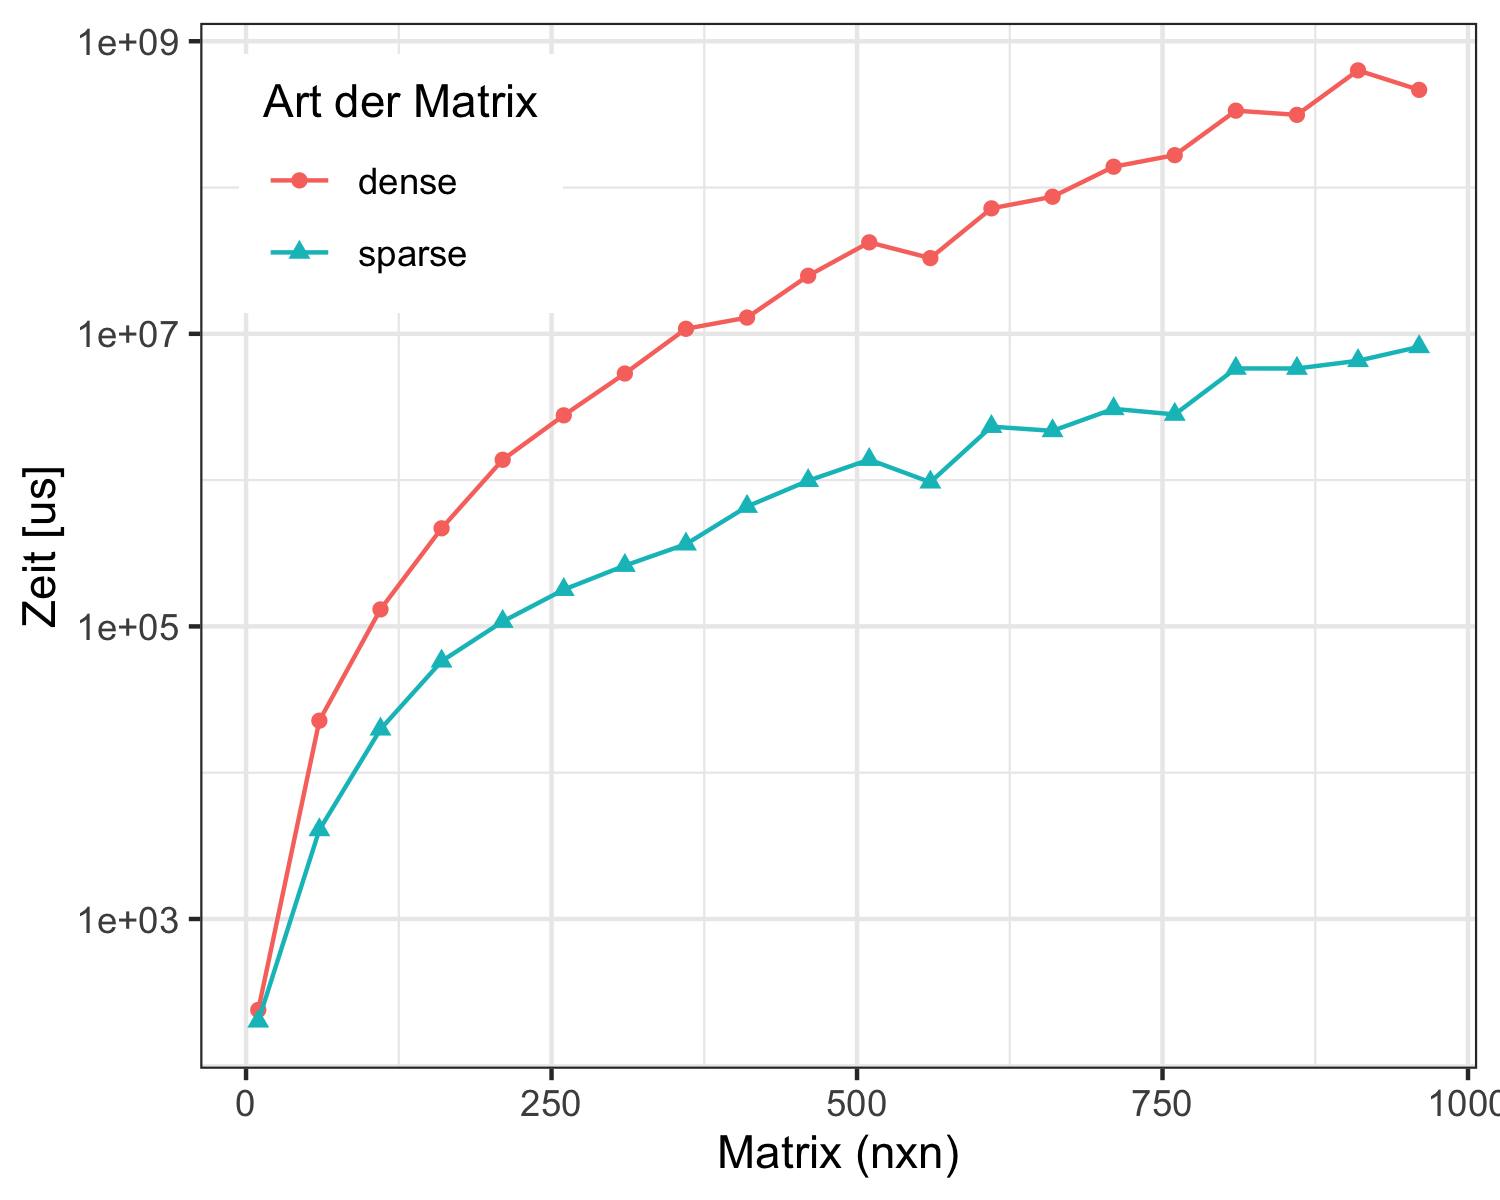
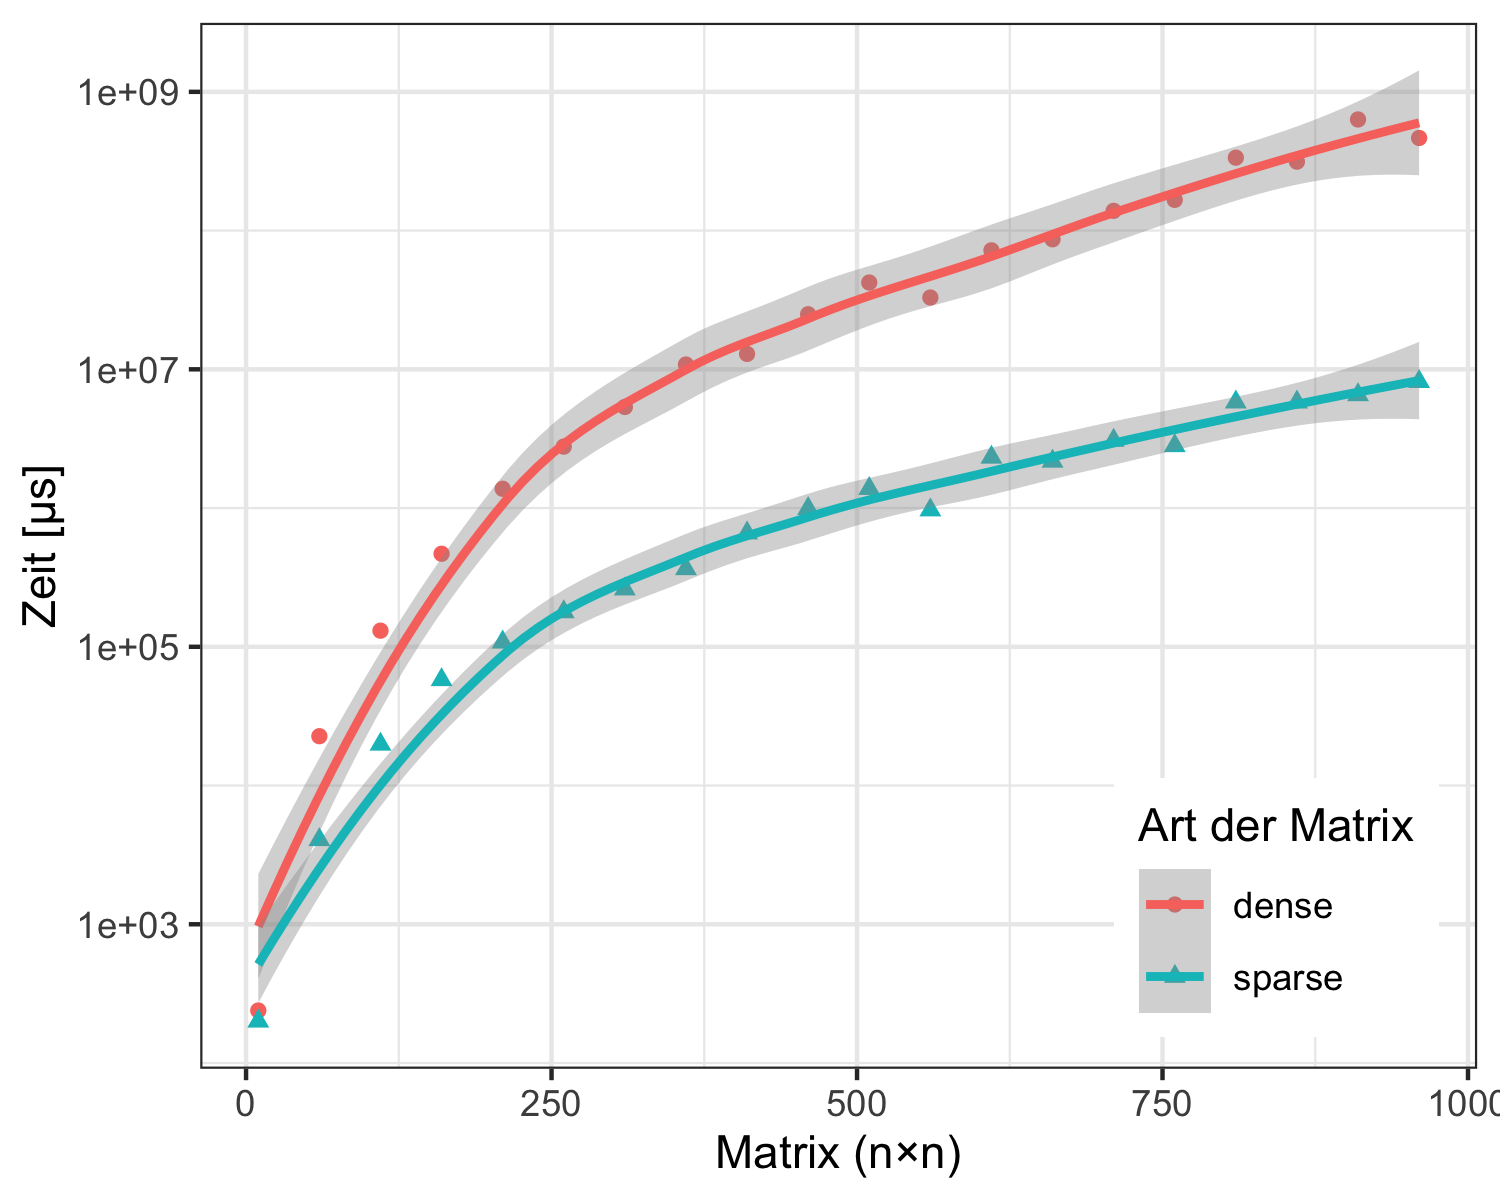
plots

diff --git a/latex/aufgabe1.tex b/latex/aufgabe1.tex
@@ -421,6 +421,17 @@ date=short                % Datumsformat
 		\label{fig:zeitcg}	
 	\end{figure}
 
+	In \cref{fig:zeitcg} ist zu sehen, dass das CG-Verfahren f\"ur d\"unn besetzte Matrizen im \textit{compressed sparse row}-Format wesentlich effizienter berechnet werden kann, als f\"ur vollbesetzte Matrizen bzw. als solche gespeicherten Matrizen.
+	Wie in Zeile 5 in \cref{alg:cg} zu sehen ist, ist der unterschiedliche Aufwand von einer Matrix-Vektor-Multiplikation abh\"angig. Der Aufwand um eine vollbesetzte $n\times n$-Matrix mit einem Vektor zu multiplizieren entspricht $\mathcal{O}(n^2)$. Der Aufwand um eine d\"unnbesetzte Matrix mit einem Vektor zu multiplizieren ist davon abh\"angig wie dicht die Matrix besetzt ist. In \cref{fig:zeitcg-sparse} ist zu sehen, wie sich die ben\"otigte Zeit zur durchf\"uhrung des CG-Verfahrens mit der Anzahl an Eintr\"agen ungleich null pro Zeile der Matrix \"andert.
+	
+	\begin{figure}[H]
+		\begin{center}
+			\includegraphics[width=0.8\textwidth]{../plots/cg-sparsity-sparse.png}
+		\end{center}
+		\caption{Ben\"otigte Zeit in $\mu s$ f\"ur verschieden dicht besetzte $n\times n$-Matrizen im \textit{compressed sparse row}-Format}
+		\label{fig:zeitcg-sparse}	
+	\end{figure}
+	
 	
 	Die spektrale Konditionszahl definiert die Konvergenzgeschwindigkeit des CG-Verfahrens. Durch lösen des vorkonditionierten Systems
 	\begin{align*}
@@ -457,16 +468,17 @@ date=short                % Datumsformat
 	\appendix
 	\section{Verwendete Klassen}
 	\subsection{Size}
-	\lstinputlisting[language=c,  caption=densematrix.h]{../code/Linag/size.h}
+	\lstinputlisting[language=c,  caption=size.h]{../code/Linag/size.h}
 	\subsection{Vektor}
-	\lstinputlisting[language=c,  caption=densematrix.h]{../code/Linag/vector.h}
+	\lstinputlisting[language=c,  caption=vector.h]{../code/Linag/vector.h}
 	\subsection{Vollbesetzte Matrix}
 	\lstinputlisting[language=c,  caption=densematrix.h]{../code/Linag/densematrix.h}
 	\subsection{D\"unnbesetzte Matrix}
-	\lstinputlisting[language=c,  caption=densematrix.h]{../code/Linag/sparsematrix.h}
+	\lstinputlisting[language=c,  caption=sparsematrix.h]{../code/Linag/sparsematrix.h}
 	
 	\newpage
 	\printbibliography
+	\lstlistoflistings
 	\listoffigures
 	\thispagestyle{firststyle}
 	
